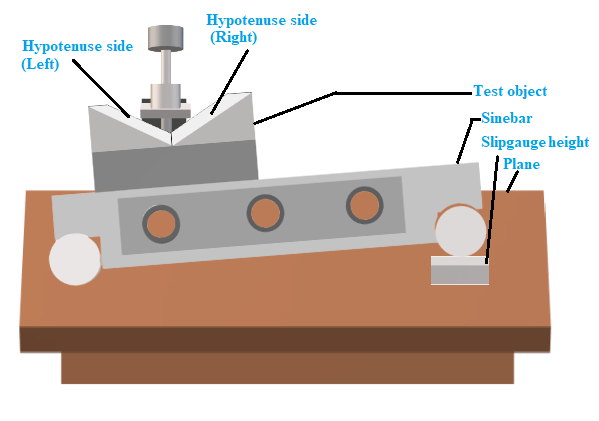
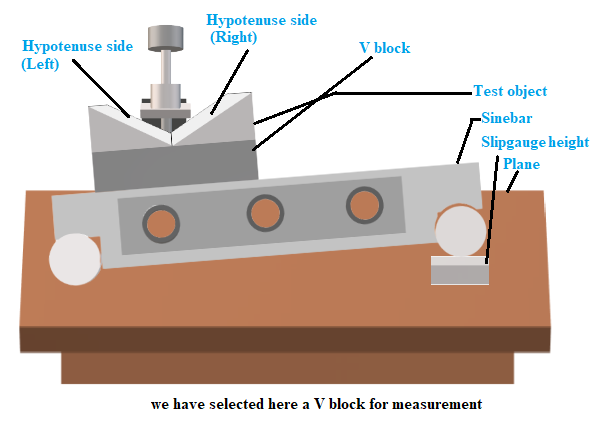
modified2

diff --git a/experiment/theory.md b/experiment/theory.md
@@ -1,6 +1,6 @@
 ## Theory
 
- A sine bar is a type of precision measuring tool used for accurate measurement of angles and, in particular, for inspecting the taper of workpieces. The idea behind a sine bar is based on trigonometry, where the precise taper angle can be calculated from the sine of the angle created between the sine bar and the workpiece. A sine bar is used in conjunction with slip gauge blocks for precise angular measurements. A sine bar is used either to measure an angle very accurately or face locate any work to a given angle. Sine bars are made from a high chromium corrosion-resistant steel and are hardened, precision ground, and stabilized. Two cylinders of equal diameter are placed at the ends of the bar. The axes of these two cylinders are mutually parallel to each other and are also parallel to, and at equal distance from, the upper surface of the sine bar. Accuracy up to 0.01 mm/m of the length of the sine bar can be attained. A sine bar is generally used with slip gauge blocks. The sine bar forms the hypotenuse of a right triangle, while the slip gauge blocks form the opposite side. The height of the slip gauge block is found by multiplying the sine of the desired angle by the length of the sine bar: H = L &times; sin(θ).  
+ A sine bar is a type of precision measuring tool used for accurate measurement of angles and, in particular, for inspecting the taper of workpieces. The idea behind a sine bar is based on trigonometry, where the precise taper angle can be calculated from the sine of the angle created between the sine bar and the workpiece. A sine bar is used in conjunction with slip gauge blocks for precise angular measurements.Slip gauges are used as standard length measurement. A sine bar is used either to measure an angle very accurately or face locate any work to a given angle. Sine bars are made from a high chromium corrosion-resistant steel and are hardened, precision ground, and stabilized. Two cylinders of equal diameter are placed at the ends of the bar. The axes of these two cylinders are mutually parallel to each other and at equal distance from the upper surface of the sine bar. Accuracy up to 0.01 mm/m of the length of the sine bar can be attained. A sine bar is generally used with slip gauge blocks. The sine bar forms the hypotenuse of a right triangle, while the slip gauge blocks form the opposite side. The height of the slip gauge block is found by multiplying the sine of the desired angle by the length of the sine bar: H = L &times; sin(θ).  
 
 Some important considerations of a Sine bar are as follows:
 
@@ -18,15 +18,17 @@ Where:
 
 - L is the distance between the centers of the sine bar's cylindrical surfaces.
 
-1. Workpiece Clamping: To measure the taper of a workpiece using a sine bar, the workpiece is securely clamped at the center of the sine bar, ensuring that the taper to be measured rests on the flat surface of the sine bar.
+As shown in the figure.
 
-2. Height Adjustment: The sine bar needs to be set up so that its upper and lower ends are parallel to the workpiece's taper. This is achieved by placing precision gauge blocks under one end of the sine bar. The height of these gauge blocks is carefully chosen to ensure parallelism.
+2. Workpiece Clamping: To measure the taper of a workpiece using a sine bar, the workpiece is securely clamped at the center of the sine bar, ensuring that the taper to be measured rests on the flat surface of the sine bar.
+
+3. Height Adjustment: The sine bar needs to be set up so that its upper and lower ends are parallel to the workpiece's taper. This is achieved by placing various slip gauges of known length under one end of the sine bar. The height of these slip gauges is carefully chosen to ensure parallelism.
 
 <div align="center">
 <img class="img-fluid"  src="./images/img2.jpeg" alt=""><br>           
 </div>
 
-In this experiment, a sine bar is used to gauge the taper of a workpiece.
+
 				
 
 						

diff --git a/experiment/procedure.md b/experiment/procedure.md
@@ -1,9 +1,9 @@
 ## Procedure
 
-**Schematic of the Plant**
+<!-- **Schematic of the Plant**
 <div align="center">
 <img class="img-fluid"  src="./images/plant.png" alt=""><br>           
-</div>
+</div> -->
 
 
 **Steps to perform the simuation**
